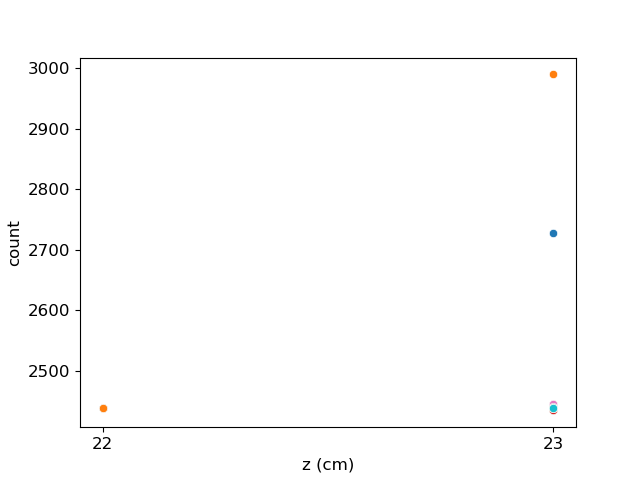
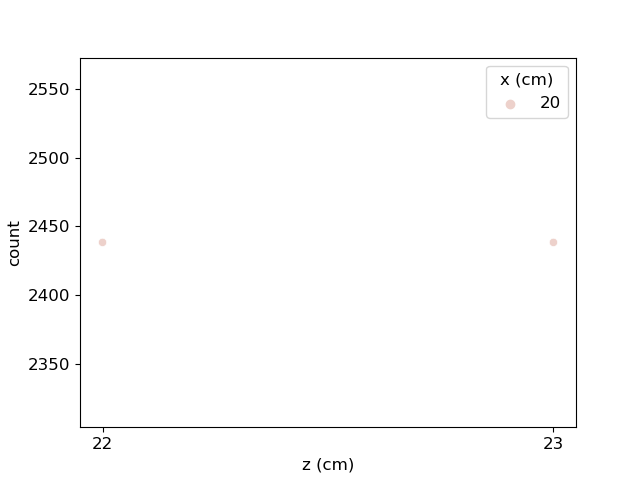
new plot functions

diff --git a/graphs.py b/graphs.py
@@ -4,28 +4,68 @@ import seaborn as sns
     
 plt.rcParams['font.size'] = 12
 
-def zcount(filename):
+def __get_data(filename):
     data = pd.read_csv(f'resultados/{filename}.csv')
+    z_pos = data.z.unique()
+    x_pos = data.x.unique()
+
     plot_data = {
-        'z': data.z.unique(),
+        'z': [],
+        'x': [],
         'count': []
     }
 
-    for item_z in plot_data['z']:
-        val = data.query('z == @item_z').contagem.mean()
-        plot_data['count'].append(val)
+    for item_x in x_pos:
+        for item_z in z_pos:
+            val = data.query('z == @item_z and x == @item_x').contagem.mean()
+            plot_data['count'].append(val)
+            plot_data['x'].append(item_x)
+            plot_data['z'].append(item_z)
 
     plot_data = pd.DataFrame(plot_data)
+    return plot_data
+
+def zcount(filename):
+    plot_data = __get_data(filename)
 
     sns.scatterplot(
         data = plot_data,
         x = 'z',
-        y = 'count'
+        y = 'count',
+        hue = 'x',
+        style = 'x'
     )
     plt.xticks(plot_data['z'])
     plt.xlabel('z (cm)')
-    # plt.legend(title = 'x (cm)', bbox_to_anchor=(1,1))
+    plt.legend(title = 'x (cm)', bbox_to_anchor=(1,1))
     plt.savefig('imgs/z-contagem.png')
-#     plt.show()
+    plt.show()
 
-# zcount('teste_v2')
+def xcount(filename):
+    plot_data = __get_data(filename)
+
+    sns.scatterplot(
+        data = plot_data,
+        x = 'x',
+        y = 'count',
+        hue = 'z',
+        style = 'z'
+    )
+    plt.xticks(plot_data['x'])
+    plt.xlabel('x (cm)')
+    plt.legend(title = 'z (cm)', bbox_to_anchor=(1,1))
+    plt.savefig('imgs/x-contagem.png')
+    plt.show()
+
+def count_over_time(filename, x_pos, z_pos):
+    data = pd.read_csv(f'resultados/{filename}.csv')
+    plot_data = data.query('z == @z_pos and x == @x_pos')
+
+    sns.scatterplot(
+        data = plot_data,
+        x = 'tempo(s)',
+        y = 'contagem'
+    )
+    plt.savefig('imgs/count_over_time.png')
+    plt.title(f'x = {x_pos} cm ---- z = {z_pos} cm')
+    plt.show()
